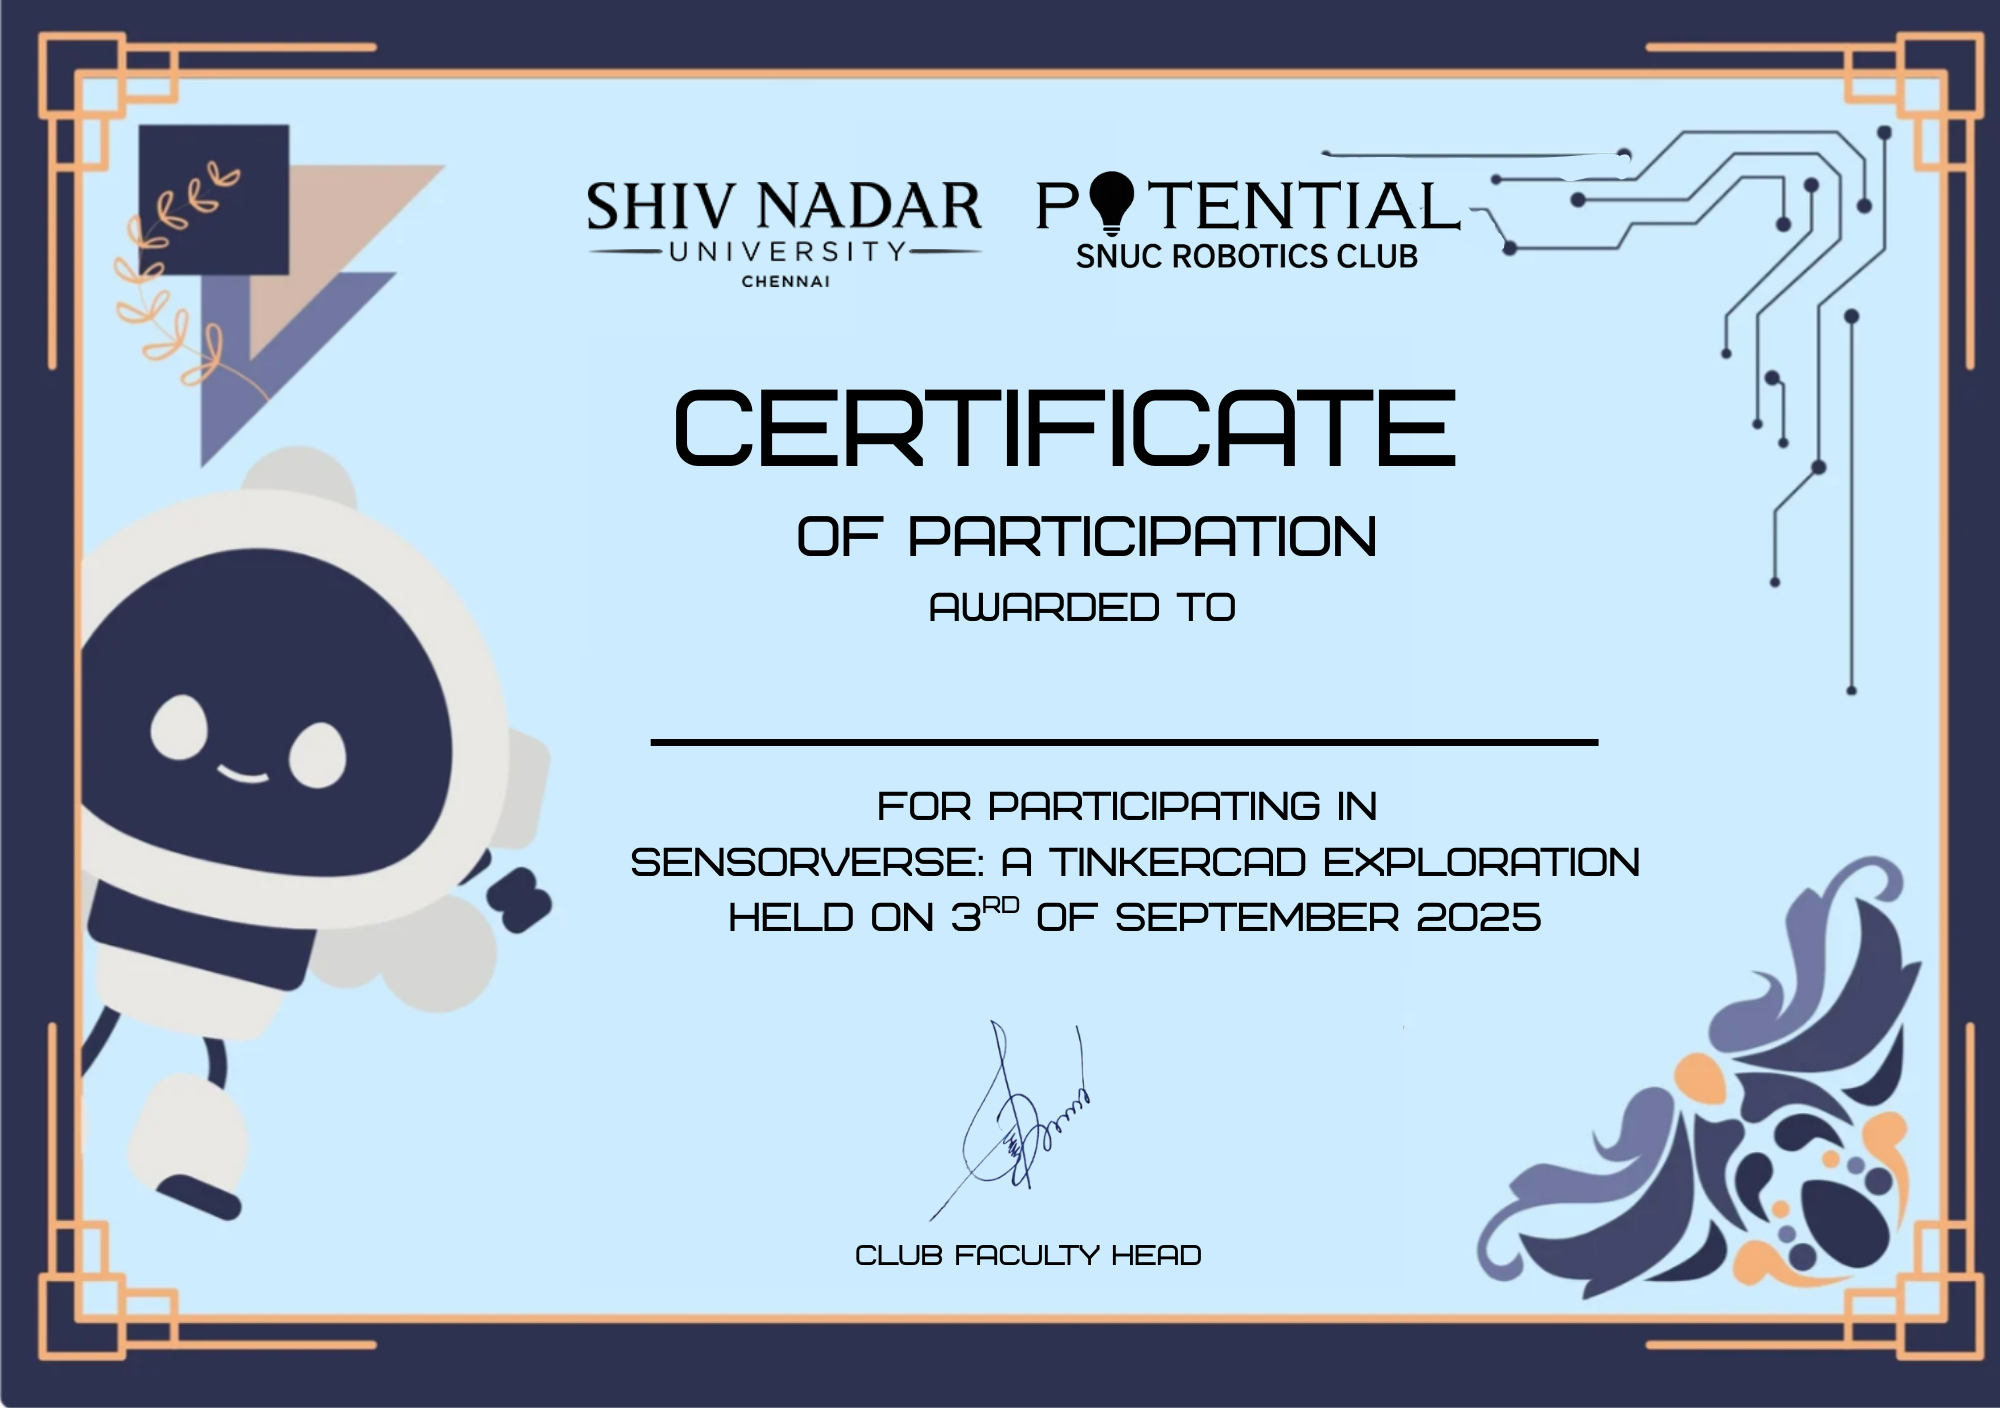
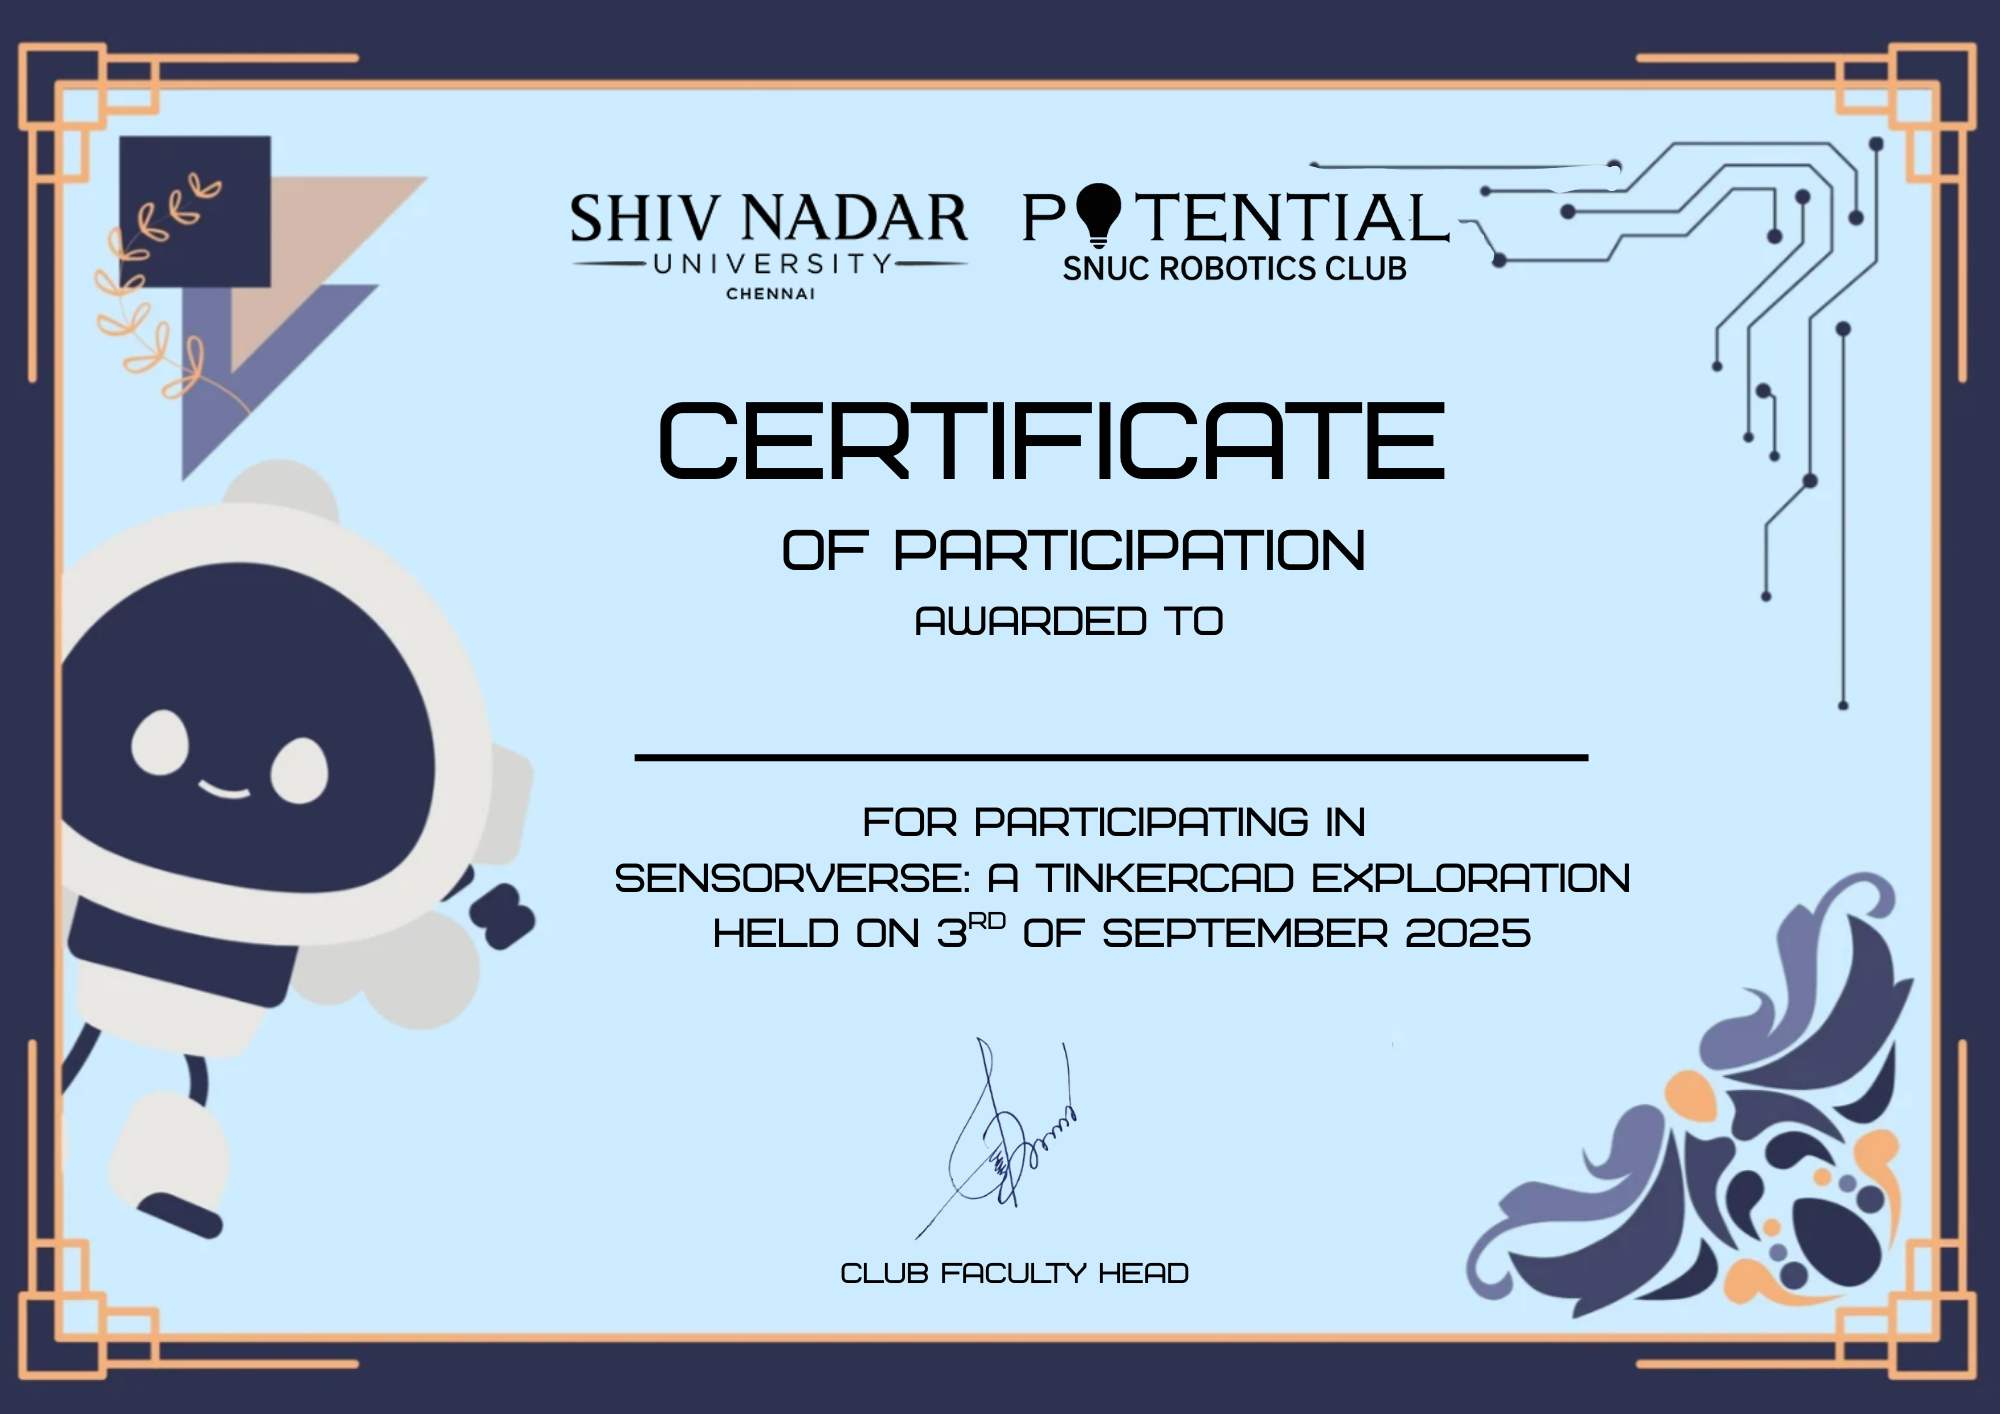
Changes made in generating pdf

diff --git a/temp_certificate.html b/temp_certificate.html
@@ -2,32 +2,72 @@
 <html>
 <head>
   <meta charset="UTF-8">
+  <title>KRISH K</title>
   <style>
-    @page { margin: 0; }
-    html, body { margin: 0; padding: 0; }
-    .container {
-      width: 2000px;       /* PNG width */
-      height: 1414px;      /* PNG height */
-      background-image: url('line_following_bot_workshop_certificate.png');
-      background-size: 100% 100%;
-      background-repeat: no-repeat;
-      position: relative;
+    /* Scaled dimensions for Chrome compatibility */
+    @page {
+      size: 1512px 1068px;
+      margin: 0;
+      padding: 0;
     }
+    @font-face {
+    font-family: "MyCertificateFont";
+    src: url("fonts/LCALLIG.ttf") format("truetype");
+    font-weight: normal;
+    font-style: normal;
+  }
+    body {
+      margin: 0;
+      padding: 0;
+      width: 1512px;
+      height: 1068px;
+      overflow: hidden;
+      background: white;
+      -webkit-print-color-adjust: exact;
+      print-color-adjust: exact;
+    }
+    
+    .container {
+      position: absolute;
+      top: 0;
+      left: 0;
+      bottom: 0;
+      right: 0;
+      width: 1512px;
+      height: 1068px;
+      background-image: url('certificates/sensorverse_cert.png');
+      background-size: 1512px 1068px;
+      background-position: center;
+      background-repeat: no-repeat;
+      image-rendering: -webkit-optimize-contrast;
+      image-rendering: crisp-edges;
+    }
+    
     .name {
       position: absolute;
-      top: 54%;            /* Adjust vertical placement */
-      left: 50%;
+      top: 50%;
+      left: 53%;
       transform: translate(-50%, -50%);
-      font-size: 48px;     /* Adjust size */
+      font-size: 38px; /* Scale font proportionally */
+      font-family:"MyCertificateFont", cursive;
       text-align: center;
-      font-family: Georgia, 'Times New Roman', Times, serif;
       white-space: nowrap;
+      color: #000000;
+    }
+    
+    @media print {
+      html, body {
+        width: 1512px !important;
+        height: 1068px !important;
+        margin: 0 !important;
+        padding: 0 !important;
+      }
     }
   </style>
 </head>
-<body>
+<body> 
   <div class="container">
-    <div class="name">Rhea Khan Sabu</div>
+    <div class="name">KRISH K</div>
   </div>
 </body>
 </html>

diff --git a/template.html b/template.html
@@ -2,41 +2,66 @@
 <html>
 <head>
   <meta charset="UTF-8">
+  <title>{{name}}</title>
   <style>
-    @page{
-      size: A4 landscape;
-      margin: 0;
-    }
-    html,body{
+    /* Scaled dimensions for Chrome compatibility */
+    @page {
+      size: 1512px 1068px;
       margin: 0;
       padding: 0;
-      width: 100%;
-      height: 100%;
-      /* overflow: hidden; */
-      /* background: white; */
     }
+    @font-face {
+    font-family: "MyCertificateFont";
+    src: url("fonts/LCALLIG.ttf") format("truetype");
+    font-weight: normal;
+    font-style: normal;
+  }
+    body {
+      margin: 0;
+      padding: 0;
+      width: 1512px;
+      height: 1068px;
+      overflow: hidden;
+      background: white;
+      -webkit-print-color-adjust: exact;
+      print-color-adjust: exact;
+    }
+    
     .container {
-      width: 100%;
-      height: 100%;
-
-      position: relative;
-      background-size: contain;
+      position: absolute;
+      top: 0;
+      left: 0;
+      bottom: 0;
+      right: 0;
+      width: 1512px;
+      height: 1068px;
+      background-image: url('certificates/sensorverse_cert.png');
+      background-size: 1512px 1068px;
       background-position: center;
       background-repeat: no-repeat;
-      background-image: url('certificates/sensorverse_cert.png'); /* optional */
+      image-rendering: -webkit-optimize-contrast;
+      image-rendering: crisp-edges;
     }
+    
     .name {
       position: absolute;
-      top: 54%;
-      left: 50%;
+      top: 50%;
+      left: 53%;
       transform: translate(-50%, -50%);
-      width: 80%;
-      font-size: 48px;
-      white-space: nowrap;
+      font-size: 38px; /* Scale font proportionally */
+      font-family:"MyCertificateFont", cursive;
       text-align: center;
-
-      font-family: Georgia, 'Times New Roman', Times, serif;
-
+      white-space: nowrap;
+      color: #000000;
+    }
+    
+    @media print {
+      html, body {
+        width: 1512px !important;
+        height: 1068px !important;
+        margin: 0 !important;
+        padding: 0 !important;
+      }
     }
   </style>
 </head>

diff --git a/generate_cert_pdf.py b/generate_cert_pdf.py
@@ -6,17 +6,15 @@ from selenium import webdriver
 from selenium.webdriver.chrome.service import Service
 from selenium.webdriver.chrome.options import Options
 
-# -----------------------------
 # Config
 # -----------------------------
 TEMPLATE_PATH = "template.html"
 CSV_PATH = "event_data/sensorverse_data.csv"
 OUTPUT_FOLDER = "sensorverse_output"
-PREVIEW = False   # <-- Set to False to generate PDFs
+PREVIEW = True   # <-- Set to False to generate PDFs
 
 os.makedirs(OUTPUT_FOLDER, exist_ok=True)
 
-# -----------------------------
 # Read CSV and Template
 # -----------------------------
 students = pd.read_csv(CSV_PATH)
@@ -24,7 +22,6 @@ students = pd.read_csv(CSV_PATH)
 with open(TEMPLATE_PATH, "r", encoding="utf-8") as f:
     template_html = f.read()
 
-# -----------------------------
 # Selenium / Chrome Setup
 # -----------------------------
 chrome_options = Options()
@@ -39,7 +36,6 @@ driver = None
 if not PREVIEW:
     driver = webdriver.Chrome(service=service, options=chrome_options)
 
-# -----------------------------
 # Generate / Preview Certificates
 # -----------------------------
 for _, row in students.iterrows():
@@ -49,7 +45,8 @@ for _, row in students.iterrows():
     personalized_html = template_html.replace("{{name}}", name)
 
     # Save temporary HTML
-    temp_path = f"temp_{name}.html"
+    #temp_path = f"temp_{name}.html"
+    temp_path="temp_certificate.html"
     with open(temp_path, "w", encoding="utf-8") as temp_file:
         temp_file.write(personalized_html)
 
@@ -64,15 +61,30 @@ for _, row in students.iterrows():
         driver.get("file://" + os.path.abspath(temp_path))
         pdf_path = os.path.join(OUTPUT_FOLDER, f"{name}.pdf")
 
-        pdf_data = driver.execute_cdp_cmd("Page.printToPDF", {"printBackground": True})
+        # pdf_data = driver.execute_cdp_cmd("Page.printToPDF", {"printBackground": True})
+        pdf_data = driver.execute_cdp_cmd(
+            "Page.printToPDF",
+            {
+                "printBackground": True,
+                "preferCSSPageSize": True,   #MOST IMPORTANT
+                "scale": 1,
+                "marginTop": 0,
+                "marginBottom": 0,
+                "marginLeft": 0,
+                "marginRight": 0,
+                "paperWidth": 1512 / 96,     # px → inches
+                "paperHeight": 10, #1068 / 96,    # px → inches
+                "printHeaderFooter": False
+            }
+        )
+
         with open(pdf_path, "wb") as f:
             f.write(base64.b64decode(pdf_data['data']))
 
         print(f"Generated: {pdf_path}")
-        os.remove(temp_path)  # Clean up temp HTML
+        #os.remove(temp_path)  # Clean up temp HTML
         break
 
-# -----------------------------
 # Cleanup
 # -----------------------------
 if driver:

diff --git a/generate_cert_jpg.py b/generate_cert_jpg.py
@@ -33,7 +33,7 @@ for _, row in students.iterrows():
 
     # Center text
     x = (img.width - text_width) / 2
-    y = img.height * 0.47
+    y = img.height * 0.46
 
     draw.text((x, y), name, font=font, fill=(0, 0, 0))
 
